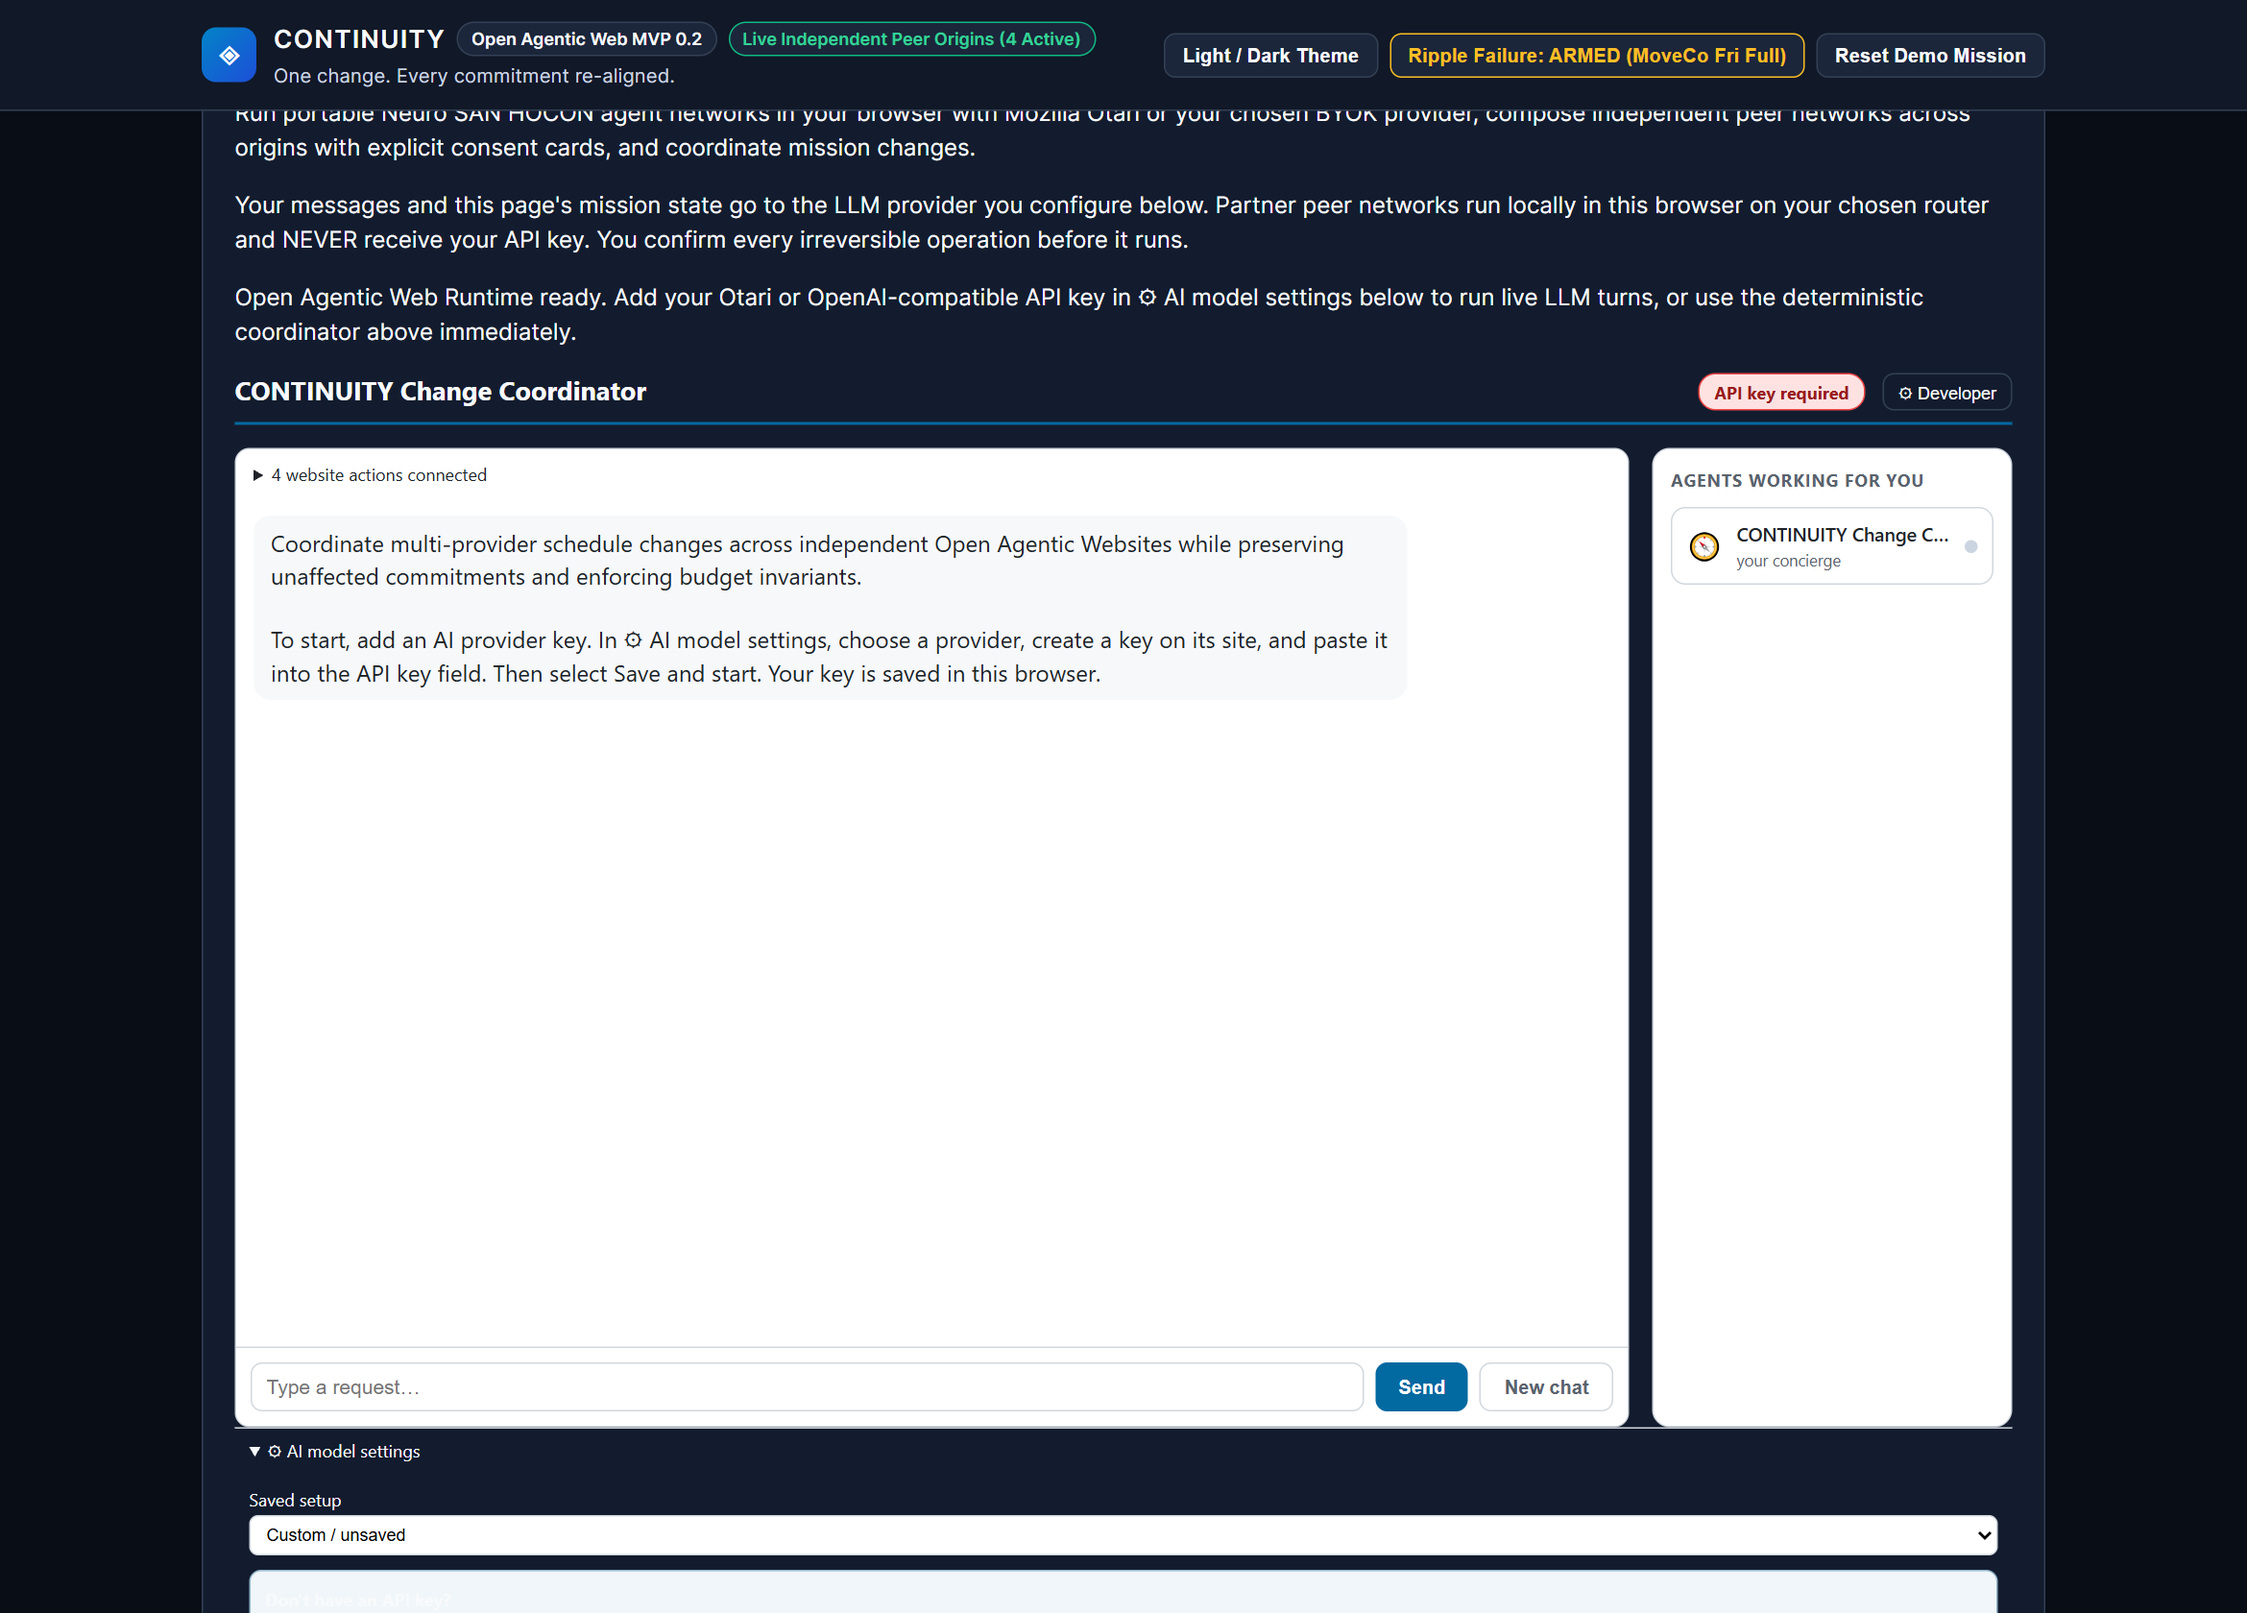
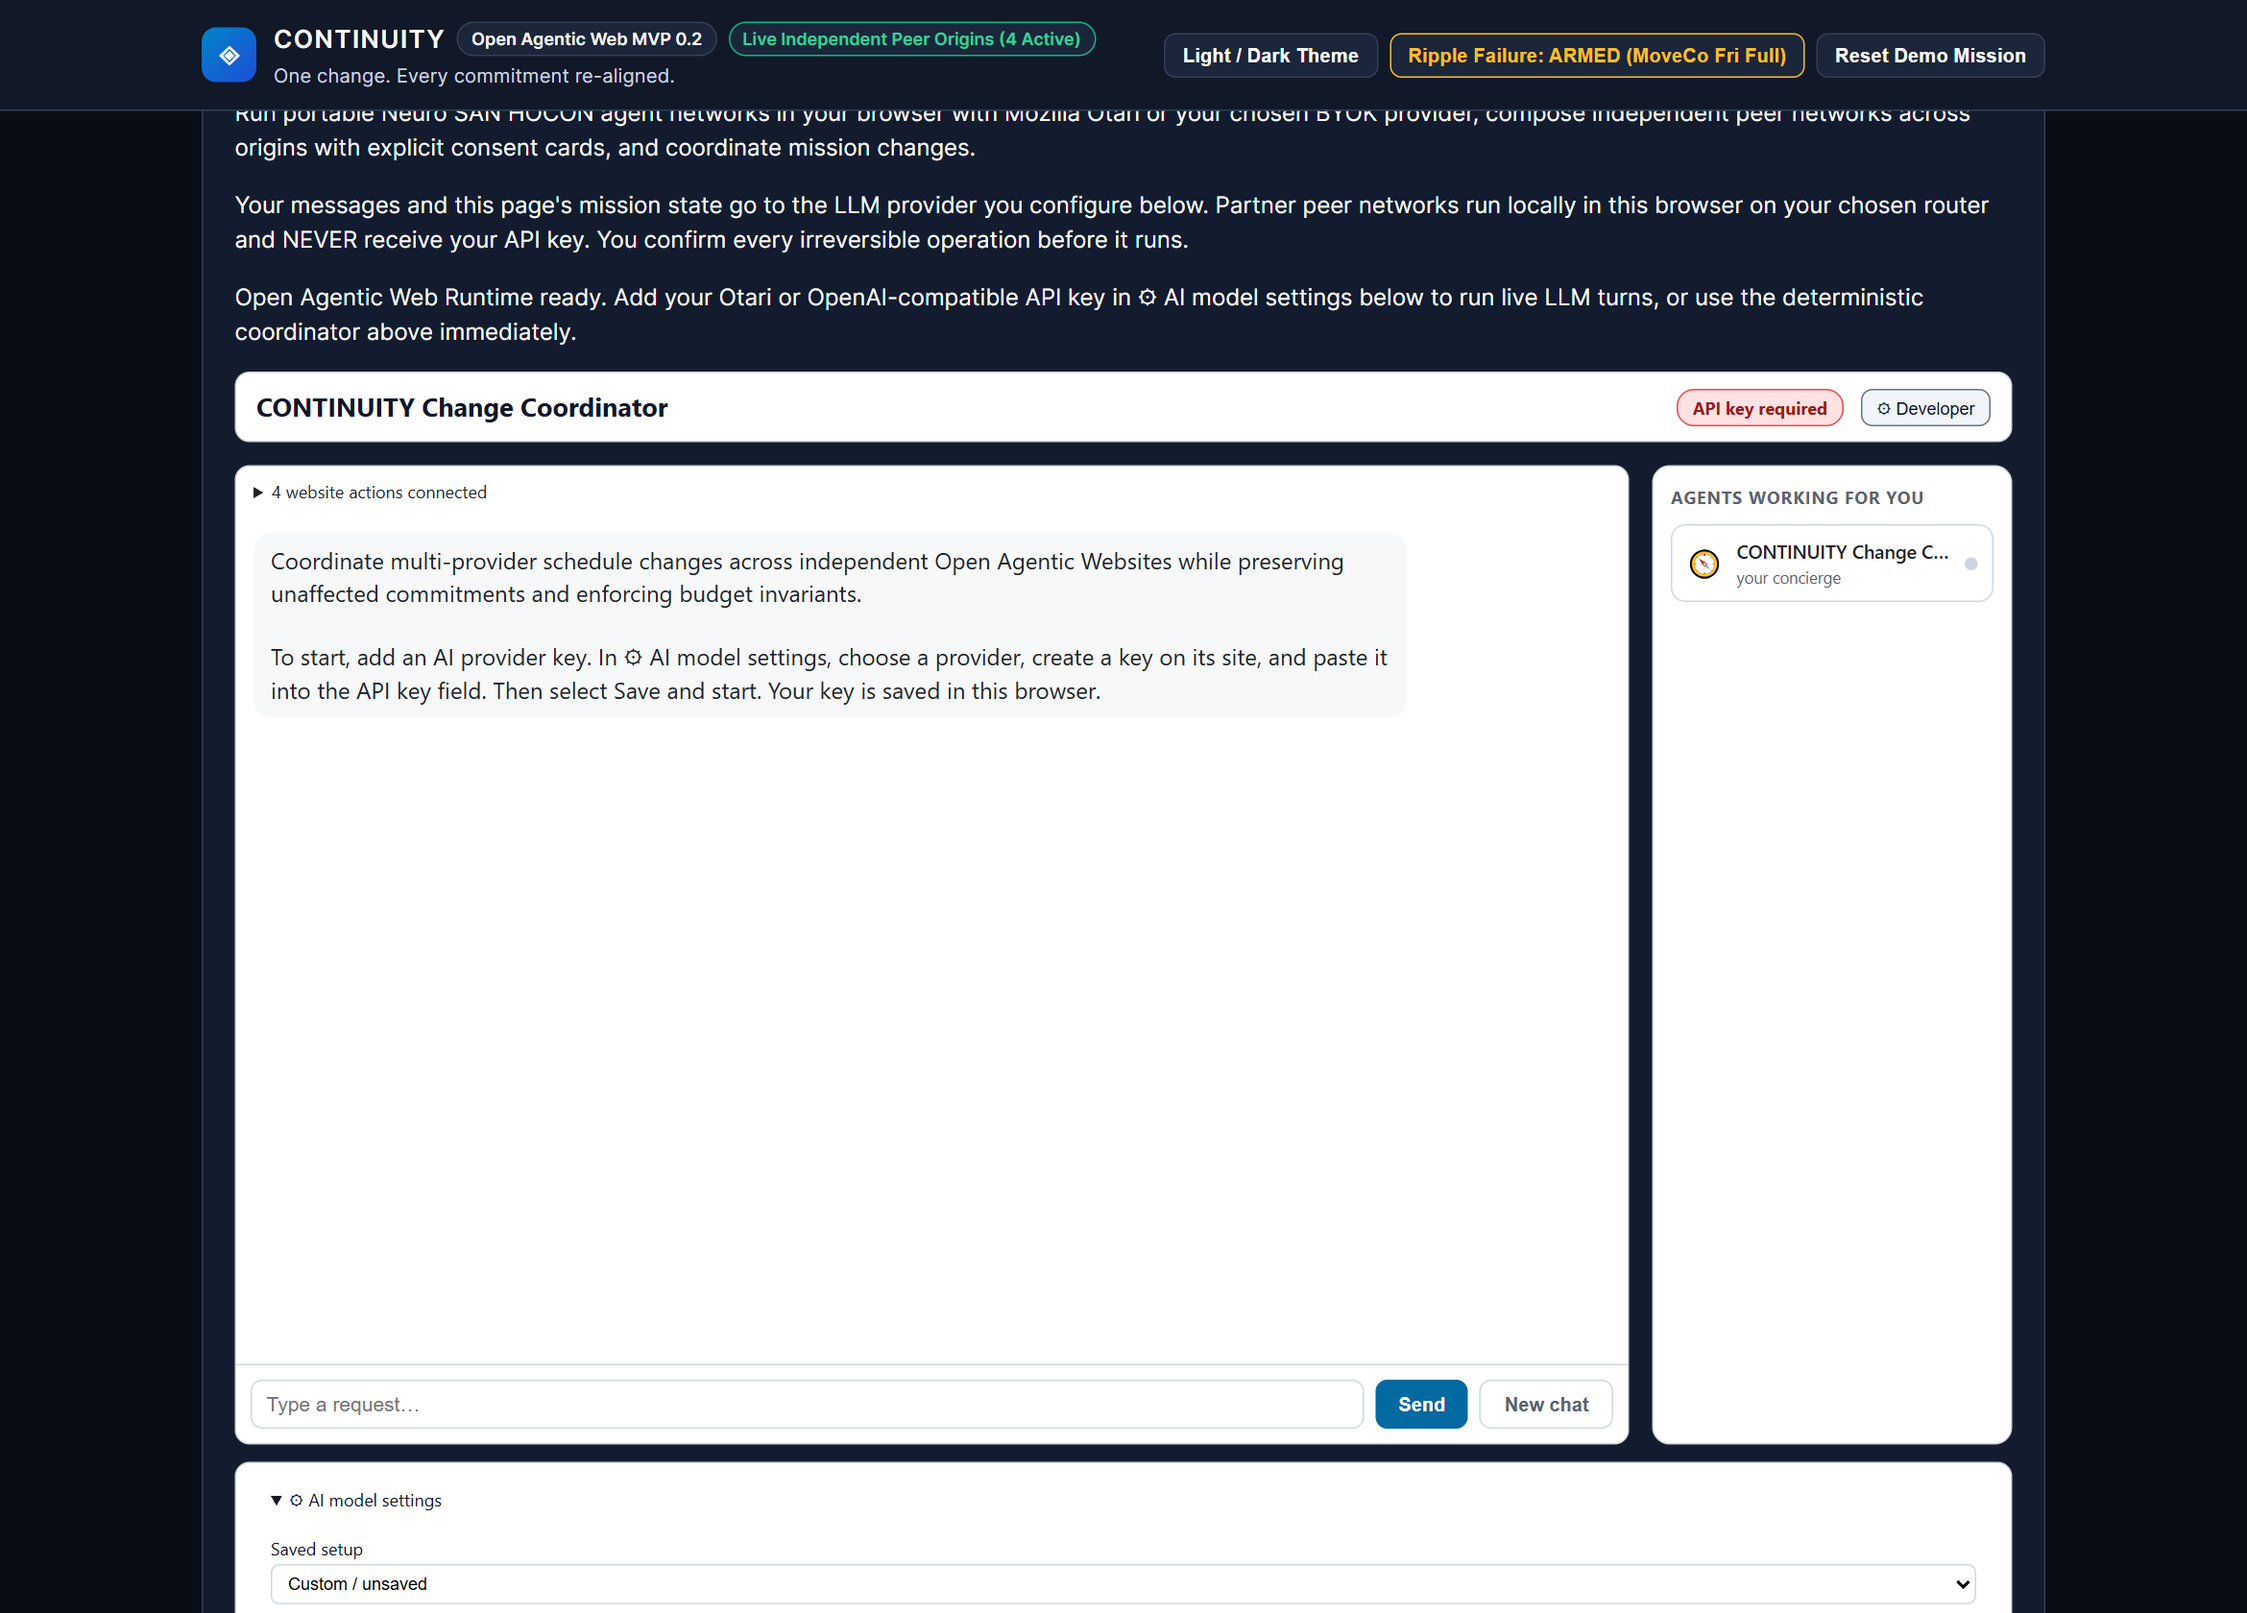
fix: 100/100 HTTPS Lighthouse contrast, zero 404 static probe & exact simulated overflow receipt

Changed region(s): [[0.0936, 0.2167, 0.9047, 0.4333], [0.0936, 0.8357, 0.9047, 1.0]]

diff --git a/apps/continuity-web/script.js b/apps/continuity-web/script.js
@@ -107,6 +107,12 @@ export class ContinuityCoordinatorPage {
 
   async probeLivePeerOrigins() {
     if (typeof fetch !== "function") return false;
+    // Static GitHub Pages hosts (`*.github.io`) serve static Open Agentic Web bundles only (no `/api/*` server);
+    // skip probing `/api/public-key` there so the browser console stays 100% free of 404 warnings.
+    if (/\.github\.io$/i.test(new URL(this.peerOrigins.moveco).hostname)) {
+      this.livePeersDetected = false;
+      return false;
+    }
     try {
       const controller = new AbortController();
       const timer = setTimeout(() => controller.abort(), 900);
@@ -699,28 +705,6 @@ export class ContinuityCoordinatorPage {
     }
 
     const { clients } = await this.ensureProviderClients();
-
-    // Adjust simulated harness fee if backup overflow crew was selected in offline simulation mode
-    if (!this.livePeersDetected && this.rippleFailureInjected && clients.moveco?.signer) {
-      const { signProviderReceipt } = await import("./vendor/proof-verifier/index.js");
-      clients.moveco.executeCommit = async ({ idempotencyKey, arguments: a }) => {
-        const body = {
-          receipt_id: "rcpt_mc_overflow_1",
-          provider_id: "moveco",
-          booking_ref: a.booking_ref,
-          scheduled_date: a.new_date,
-          window: a.window,
-          total_charged_eur: 405,
-          idempotency_key: idempotencyKey,
-          issued_at: new Date().toISOString(),
-        };
-        return {
-          execution_state: "COMMITTED",
-          status: "CONFIRMED",
-          receipt_envelope: await signProviderReceipt(body, clients.moveco.signer),
-        };
-      };
-    }
 
     const approvals = await this.saga.approvePreparedOperations(
       this.preparedOps.map((o) => o.operation_id),

diff --git a/apps/continuity-web/styles.css b/apps/continuity-web/styles.css
@@ -381,13 +381,16 @@ html[data-theme="light"] .approve-btn:disabled { background: #e2e8f0; color: #47
 #agent-app.ns-composed-app [data-ns-slot="chat"] { height: 680px; }
 #agent-app .ns-chat { background: var(--ns-bg); }
 #agent-app input[type="checkbox"], #agent-app input[type="radio"] { width: auto; }
-#agent-app .ns-header { flex-wrap: wrap; color: var(--ink); }
+#agent-app .ns-header { flex-wrap: wrap; background: #ffffff; color: #0f172a; padding: 10px 14px; border-radius: 10px; border: 1px solid #cbd5e1; }
 #agent-app .ns-header .ns-brand,
-#agent-app .ns-header h3,
+#agent-app .ns-header h3 { color: #0f172a; }
+#agent-app .ns-devtoggle:not(.on) { color: #0f172a; background: #f1f5f9; border: 1px solid #64748b; }
+#agent-app .ns-settings { background: #ffffff; color: #0f172a; border-radius: 10px; border: 1px solid #cbd5e1; padding: 10px 14px; margin-top: 12px; }
 #agent-app .ns-settings summary,
 #agent-app .ns-settings-body,
-#agent-app .ns-settings-body label { color: var(--ink); }
-#agent-app .ns-devtoggle:not(.on) { color: var(--ink); border-color: var(--border); }
+#agent-app .ns-settings-body label { color: #0f172a; }
+#agent-app .ns-key-required-hint,
+#agent-app .ns-setup-warn { color: #9a3412 !important; font-weight: 600; }
 #agent-app .ns-settings-body label { margin: 4px 0; font-weight: 400; }
 #agent-app .ns-w-label { font-family: inherit; }
 #agent-app .ns-widget label { margin: 0; }
